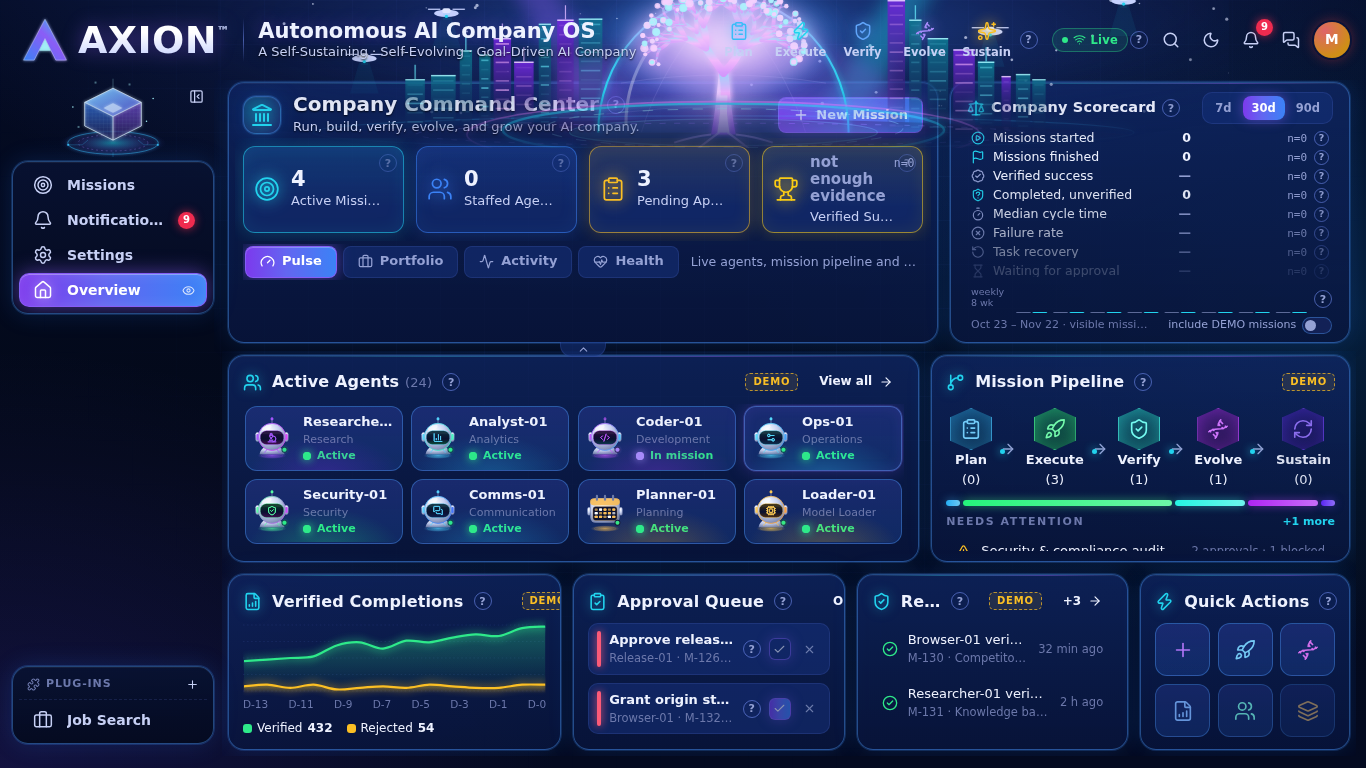
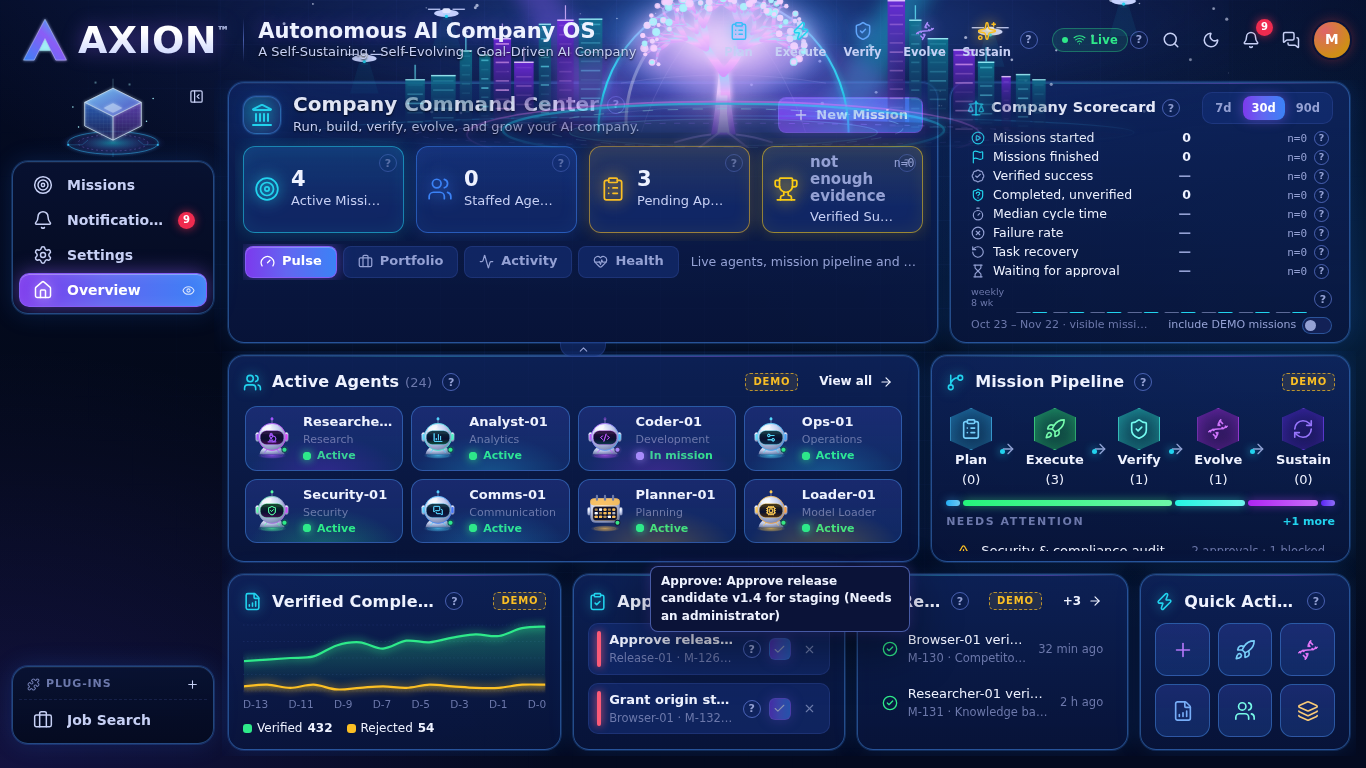
docs(c48): fix round section and screenshots

diff --git a/web/docs/improve/cycles/c48-report.md b/web/docs/improve/cycles/c48-report.md
@@ -43,3 +43,13 @@ web: `src/features/approvals/ApprovalBinding.tsx`, `src/features/mission/Shared.
 3. `canDecide` is a snapshot: another user deciding first turns it into `already_decided` only after the next refresh (SSE refreshes approvals on `approval.*` events).
 4. DEMO has no blocked fixture (see above).
 5. `aria-disabled` replaced `disabled` on these controls on purpose; the old CSS rule for `:disabled` was extended to `.is-gated`.
+
+## Fix round (after review PASS-WITH-FIXES)
+1. **`viewer` is required** on `approvalDto(r, now, viewer)`; the "no viewer means tier_requires_admin" branch is gone (tsc enforces it).
+2. **Expired, route side.** New test backdates the request (inserted already past its expiry, because the bound expiry is immutable by trigger), posts the decision, and asserts 409 `APPROVAL_STALE`, state `expired`, 0 decisions, and that the DTO said `expired` for the same row. Expiry is now judged by DB `now()`: the list, the decision select and the response select add `(expires_at < now()) as db_expired`, and `decideRefusal` and the DTO `state` read it (the JS clock is only a fallback for test rows read without it).
+   - RED/GREEN: on the previous code the new "expiry is the database clock" test failed (1 failed, 27 passed); now 28/28. The route-side expired test passes on the old code too (JS and DB clocks agree in a test); it is a regression guard, not a RED.
+3. **Overview Approval Queue.** A gated icon's label (and its tooltip) is "Approve: title (Needs an administrator)", so sighted members see the reason on hover; the sr-only note stays. Header clipping fixed in `overview-fit.css`: sub text shrinks first, then the title (ellipsis); icon, `?`, DEMO tag and the button never shrink. Before, "Open" showed as "O" and the DEMO badge was cut (see `member-overview-dark.png` in the first report commit; the base has the same flex rules, so this was pre-existing). New api-c48 checks: no panel-head item crosses the panel's right edge, the label carries the reason, hover shows the tooltip.
+4. **R4 help.** `approval.tiers` now says R4 needs the owner role and that an administrator decides as owner today because there is no separate owner role yet; the how-to line says the same.
+5. **Fail closed.** In api mode `canDecide === undefined` is blocked with "Waiting for the server to say whether you may decide"; `apiDecide` sends only when `canDecide === true`. Demo fixtures keep `true`. api-c48 rewrites the response without the flag and checks: blocked, reason text, click sends nothing.
+
+Results: server and web tsc clean; full server vitest 50 files, 1464 passed, 0 failed; api-c48 31 PASS 0 FAIL (one earlier run failed once on a timing wait in the new overview check; the wait was made explicit and it then passed twice); api-c35 16/16; api-stage6 94/94; `DATA_MODE=api` a11y 40 views, 58 dialogs, 0 violations; verify-all ALL 10 STEPS PASSED. New screenshots: `member-overview-dark.png` (no clipping), `member-overview-tooltip-dark.png`, `member-overview-light.png`.
